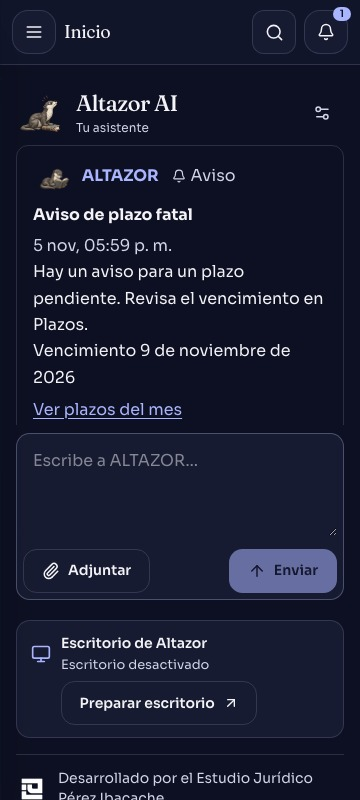
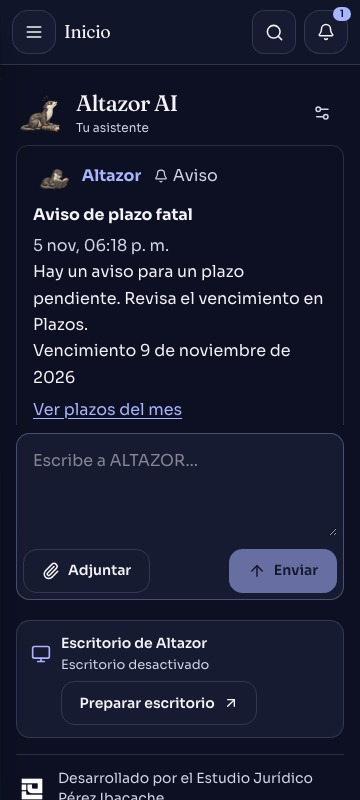
Firma los mensajes del asistente como Altazor

Changed region(s): [[0.275, 0.1875, 0.4583, 0.25], [0.4889, 0.1875, 0.6417, 0.25], [0.275, 0.2812, 0.4583, 0.3125]]

diff --git a/src/components/altazor/AltazorHome.tsx b/src/components/altazor/AltazorHome.tsx
@@ -69,7 +69,7 @@ export function AltazorHome({ showDesktopActivity = false }: { showDesktopActivi
           ))}</ol>}
         {updates.status === "unavailable" && <p role="status" className="altazor-muted">No pude comprobar si hay avisos nuevos. Puedes <Link href="/plazos">abrir Plazos</Link> mientras vuelvo a intentarlo.</p>}
         </section>
-        {clarification && <p className="altazor-clarification" role="status"><strong>ALTAZOR</strong>{clarification}</p>}
+        {clarification && <p className="altazor-clarification" role="status"><strong>Altazor</strong>{clarification}</p>}
         {currentCase && <div className="altazor-context-line">
           <span className="altazor-case-context">{currentLabel}</span>
           <button className="btn btn-ghost" type="button" aria-label="Quitar el contexto de la causa" title="Quitar el contexto de la causa"
@@ -114,7 +114,7 @@ function AltazorTurnMessage({ turn, busy, onAction }: { turn: TimelineTurn; busy
     <div className="altazor-answer">
       <div className="altazor-answer-author">
         <AltazorMark size={36} state={turn.status === "running" ? "thinking" : "reading"} />
-        <strong>ALTAZOR</strong>
+        <strong>Altazor</strong>
       </div>
       {turn.assistantText && <p className="altazor-prose">{turn.assistantText}</p>}
       {turn.sourceRefs.length > 0 && <ul className="altazor-inline-sources">

diff --git a/src/components/altazor/AltazorUpdates.tsx b/src/components/altazor/AltazorUpdates.tsx
@@ -53,7 +53,7 @@ const dueDate = new Intl.DateTimeFormat("es-CL", { day: "numeric", month: "long"
 export function AltazorUpdateMessage({ update }: { update: AltazorUpdate }) {
   return (
     <article className="altazor-update-message">
-      <div className="altazor-answer-author"><AltazorMark size={36} state="reading" /><strong>ALTAZOR</strong><span><Bell size={14} aria-hidden="true" /> Aviso</span></div>
+      <div className="altazor-answer-author"><AltazorMark size={36} state="reading" /><strong>Altazor</strong><span><Bell size={14} aria-hidden="true" /> Aviso</span></div>
       <div className="altazor-update-heading">
         <strong>{update.title}</strong>
         <time dateTime={update.occurredAt}>{shortDate.format(new Date(update.occurredAt))}</time>
